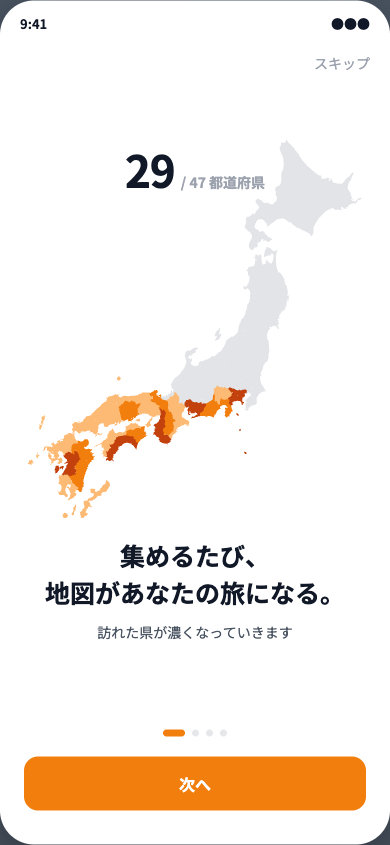
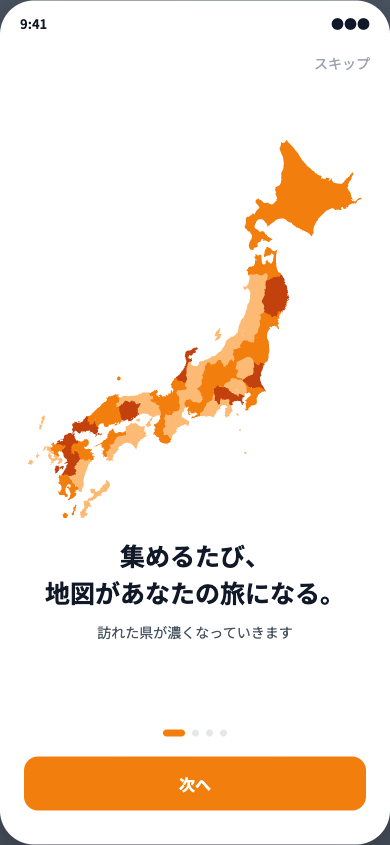
docs: オンボーディング試作に、指摘の3点を反映する
1枚目は47県ぜんぶ塗るようにした。途中で止めると西日本だけ色がついた
妙な絵になる。濃さはばらけさせて、同じ模様の繰り返しに見えないように。

「29 / 47 都道府県」は消した。オンボーディングの時点で29県という
結果があるのはおかしい、という指摘のとおり。

4枚目に地図の地を敷いた。色は assets/map-style.json から取っている
（絵ではなく、アプリの地図に見えるように）。外周は丸くぼかして、
四角いカードが貼ってあるように見えないようにした。

Claude-Session: https://claude.ai/code/session_0171ENtB3B2ATqQRRFfqgRT8

Changed region(s): [[0.1231, 0.1538, 0.9231, 0.6154], [0.3077, 0.1846, 0.4615, 0.2462]]

diff --git a/docs/design/mockups/2026-09-onboarding.html b/docs/design/mockups/2026-09-onboarding.html
@@ -71,6 +71,10 @@ h2{font-size:25px;font-weight:700;color:var(--ink);text-align:center;margin-top:
 
 /* 4. 近くの寺社 */
 .radar{width:250px;height:250px;position:relative;display:flex;align-items:center;justify-content:center}
+/* 地図の地。色は assets/map-style.json と同じものを使う（絵ではなくアプリの地図に見せる） */
+.mapbg{position:absolute;inset:0;width:100%;height:100%;border-radius:26px;
+  -webkit-mask-image:radial-gradient(circle,#000 52%,transparent 78%);
+  mask-image:radial-gradient(circle,#000 52%,transparent 78%)}
 .wave{position:absolute;border:2px solid var(--brand);border-radius:50%;opacity:0}
 .wave.go{animation:ripple 2.4s ease-out infinite}
 @keyframes ripple{0%{width:46px;height:46px;opacity:.55}100%{width:250px;height:250px;opacity:0}}
@@ -144,18 +148,19 @@ const pin = (size,color)=>`<svg width="${size}" height="${size*1.3}" viewBox="0 
 const SLIDES = [
   { title:'集めるたび、<br>地図があなたの旅になる。',
     sub:'訪れた県が濃くなっていきます',
-    art:()=>`<div class="counter"><span class="n" id="cnt">0</span><span class="u">/ 47 都道府県</span></div>
-      <div class="mapwrap"><svg viewBox="0 0 ${JP_W} ${JP_H}">${
+    art:()=>`<div class="mapwrap"><svg viewBox="0 0 ${JP_W} ${JP_H}">${
         JP_ORDER.map(n=>`<path class="pref" data-p="${n}" d="${JP_PATHS[n]}"/>`).join('')}</svg></div>`,
     play(){
-      const cnt = document.getElementById('cnt');
-      // 実機と同じ南→北。29県ぶん塗って、数字も一緒に上がる
-      const take = JP_ORDER.slice(0,29);
-      take.forEach((n,i)=>t(()=>{
-        const el = document.querySelector(`[data-p="${n}"]`);
-        el.classList.add(['t1','t1','t2','t3'][i%4]);
-        cnt.textContent = i+1;
-      }, 340 + i*62));
+      /*
+       * 実機と同じ南→北。**47県ぜんぶ塗る**。
+       * 途中で止めると西日本だけ色がついた妙な絵になるし、
+       * オンボーディングの時点で「29県」という結果があるのもおかしい
+       */
+      JP_ORDER.forEach((n,i)=>t(()=>{
+        // 濃さはばらけさせる。同じ模様の繰り返しに見えないように
+        const tier = ['t1','t2','t1','t3','t1','t2','t2','t1','t3','t2'][i % 10];
+        document.querySelector(`[data-p="${n}"]`).classList.add(tier);
+      }, 260 + i*46));
     }},
 
   { title:'写真を1枚。<br>それだけ。',
@@ -185,6 +190,20 @@ const SLIDES = [
   { title:'近くの寺社を<br>見つけます。',
     sub:'許可すると、まわりの神社やお寺が地図に出ます',
     art:()=>`<div class="radar">
+      <svg class="mapbg" viewBox="0 0 250 250">
+        <rect width="250" height="250" fill="#fafafa"/>
+        <path d="M0 196 C60 186 96 214 148 206 C196 199 222 214 250 208 L250 250 L0 250 Z" fill="#A9CFE8"/>
+        <rect x="16" y="24" width="58" height="44" rx="3" fill="#D2E7CB"/>
+        <rect x="170" y="128" width="52" height="40" rx="3" fill="#C3DCBA"/>
+        <g stroke="#dddddd" stroke-width="7" stroke-linecap="round">
+          <path d="M-10 92 H260"/><path d="M-10 158 H260"/>
+          <path d="M96 -10 V260"/><path d="M186 -10 V260"/>
+          <path d="M40 -10 V196"/>
+        </g>
+        <g stroke="#e8e8e8" stroke-width="3">
+          <path d="M-10 52 H260"/><path d="M140 -10 V260"/><path d="M-10 124 H260"/>
+        </g>
+      </svg>
       <div class="wave go" style="animation-delay:0s"></div>
       <div class="wave go" style="animation-delay:.8s"></div>
       <div class="wave go" style="animation-delay:1.6s"></div>
